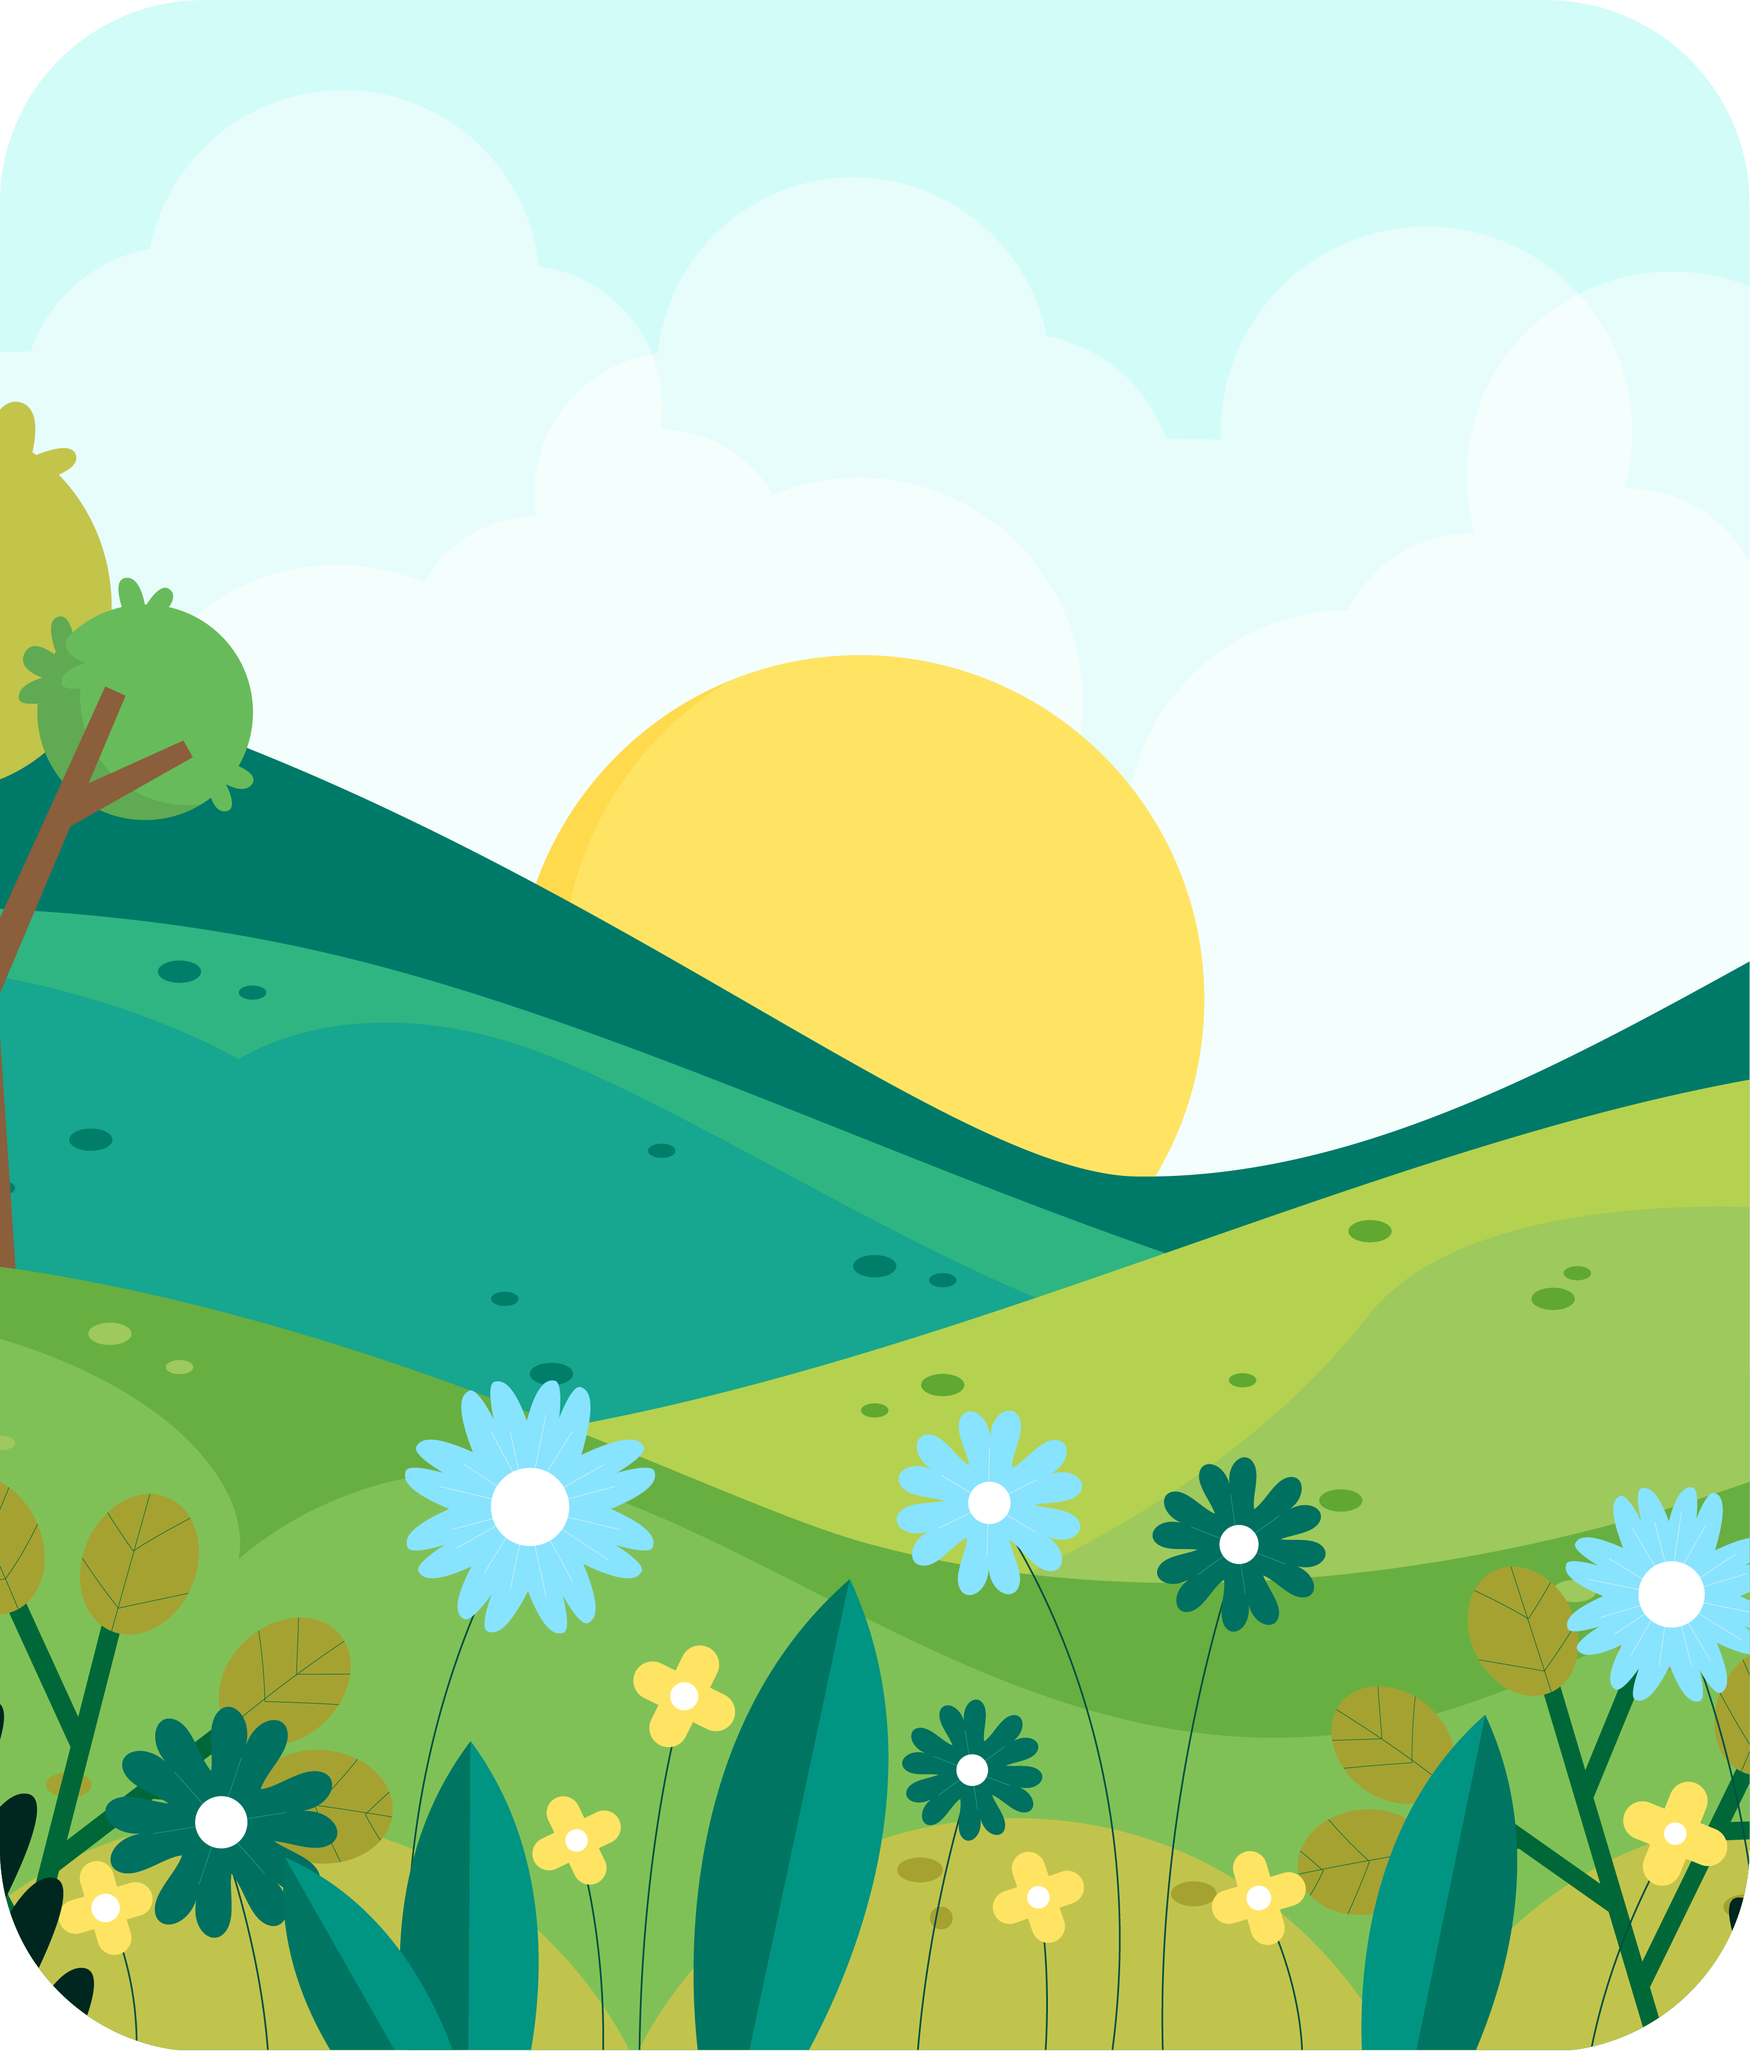
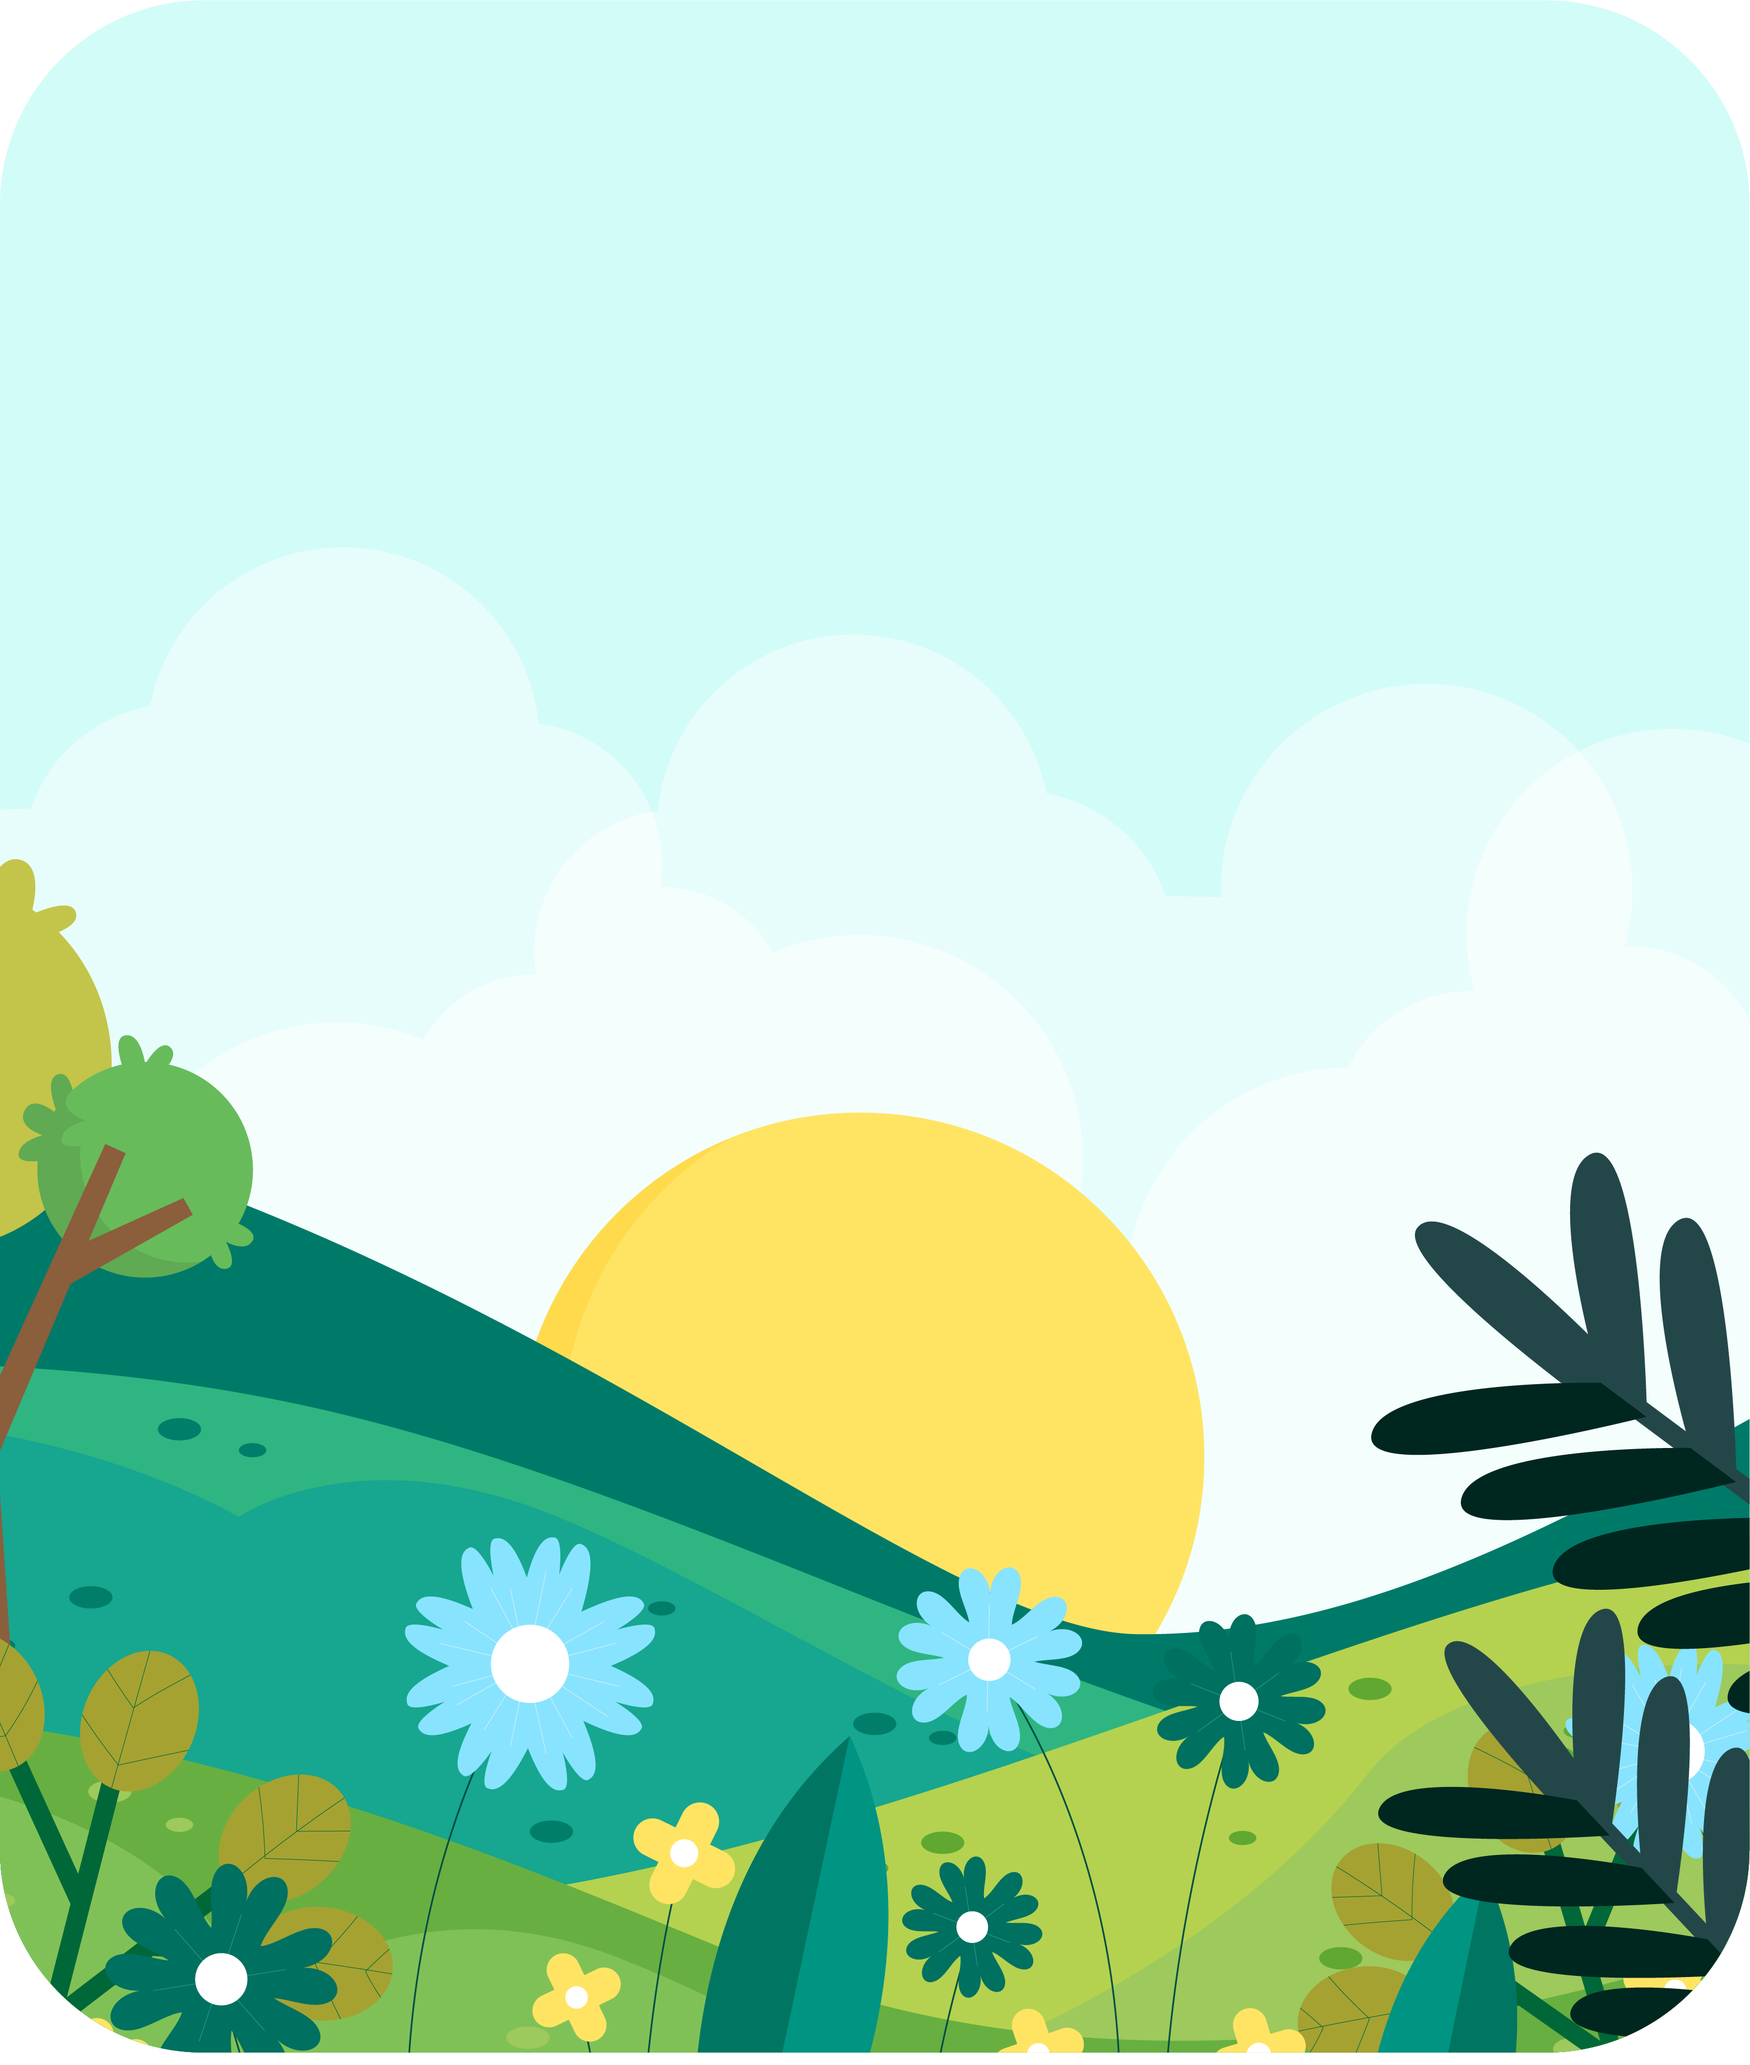
[FE] feat : #62 비밀친구 배경추가

diff --git a/frontend/src/views/secret/SecretTalkView.vue b/frontend/src/views/secret/SecretTalkView.vue
@@ -19,7 +19,7 @@
         :isPublisher="true"
       />
       <SecretCanvas
-        v-if="subscriber"
+        v-if="subscriber && state.subscribers.length > 0"
         :parts="subscriber"
         :class="{
           'user-card': true,
@@ -32,10 +32,10 @@
         :isSubscribeTalking="state.isSubscribeTalking"
         :isPublisher="false"
       />
+      <button @click="activeBackgroudSelect" class="changeBg-btn">
+        배경바꾸기
+      </button>
       <div class="background-area">
-        <button @click="activeBackgroudSelect" class="changeBg-btn">
-          배경바꾸기
-        </button>
         <div v-if="state.showBackgroundSelection" class="selection-area">
           <div class="bg-wrapper">
             <div v-for="(bg, index) in backgrounds" :key="index">
@@ -65,7 +65,6 @@
       </div>
     </div>
     <article class="btn-wrapper">
-      {{ state.mySessionId }}
       <button class="option-btn" @click="clickMute" v-if="state.audioState">
         <i class="fa-solid fa-microphone-slash"></i>
         &nbsp;음소거
@@ -150,7 +149,7 @@ export default {
       mainStreamManager: undefined,
       publisher: undefined,
       subscribers: [],
-      mySessionId: `SessionX`,
+      mySessionId: `${vid}with${sid}`,
       myUserName: "Participant" + Math.floor(Math.random() * 100),
       joinedPlayerNumbers: 0,
       audioState: true,
@@ -168,7 +167,10 @@ export default {
     const backgrounds = [
       "./../../secretBg.png",
       "./../../secretBg2.png",
-      "./../../secretBg2.png",
+      "./../../secretBg3.png",
+      "./../../secretBg4.png",
+      "./../../secretBg5.png",
+      "./../../secretBg6.png",
     ];
 
     const changeBgImg = (bg) => {
@@ -305,7 +307,12 @@ export default {
       console.log("state", state);
       window.removeEventListener("beforeunload", leaveSession);
       console.log("대화종료 후 위험단어 수 : ", state.danger);
-      router.push({ name: "secret" });
+
+      if (user.value.userType === "student") {
+        router.push({ name: "secret" });
+      } else {
+        router.push({ name: "classlist" });
+      }
     };
 
     const getToken = (mySessionId) => {
@@ -425,14 +432,8 @@ export default {
           });
       },
     );
-
+    // 상대가 배경을 변경했다는 메세지 받기
     state.session.on("signal:bg-change", (event) => {
-      console.log(event.data); // Message
-      console.log("누구로부터왔니?------------", event.from); // Connection object of the sender
-      console.log(
-        "지금은누구니??------------",
-        state.publisher.stream.connection.connectionId,
-      );
       if (
         state.publisher.stream.connection.connectionId !==
         event.from.connectionId

diff --git a/frontend/src/css/secret-friend.scss b/frontend/src/css/secret-friend.scss
@@ -4,7 +4,6 @@
   background-size: cover;
   width: 100%;
   height: 100%;
-  padding-top: 80px;
 }
 
 .main-section {
@@ -108,20 +107,28 @@
 .background-area {
   margin-left: 30px;
   justify-content: flex-start;
-  height: 100%;
   .selection-area {
     display: flex;
     flex-direction: column;
+
+    height: 480px;
+    overflow: scroll;
     .bg-wrapper {
       margin-top: 20px;
       @include flexCenter;
       flex-wrap: wrap;
       justify-content: space-around;
-      width: 220px;
+      width: 260px;
       .selection-background {
-        width: 100px;
+        width: 120px;
+        margin: 5px;
         height: 160px;
         border-radius: 20px;
+        transition: all 200ms ease;
+        &:hover {
+          filter: brightness(1.05);
+          transform: scale(1.03);
+        }
       }
     }
   }
@@ -130,4 +137,16 @@
 .talking-active {
   transition: all 300ms ease;
   transform: scale(1.03);
+}
+
+.publisher {
+  position: relative;
+  .user-side {
+    position: absolute;
+    top: 0;
+    left: 0;
+    padding: 10px;
+    background-color: rgba(245, 245, 245, 0.342);
+    border-radius: 10px;
+  }
 }

diff --git a/frontend/src/views/secret/SecretFriendView.vue b/frontend/src/views/secret/SecretFriendView.vue
@@ -6,7 +6,9 @@
         <img src="@/assets/secret_landing.png" class="landing-img loading" />
         <button class="start-btn" @click="startMatch">비밀친구 대화하기</button>
 
-        <h4>현재 상담 가능한 친구 수 : {{ state.volunteerCnt }} 명</h4>
+        <h4 style="padding-top: 80px">
+          현재 상담 가능한 친구 수 : {{ state.volunteerCnt }} 명
+        </h4>
       </section>
       <section class="sub-section" v-else>
         <!-- <img src="@/assets/secret_matching.png" /> -->
